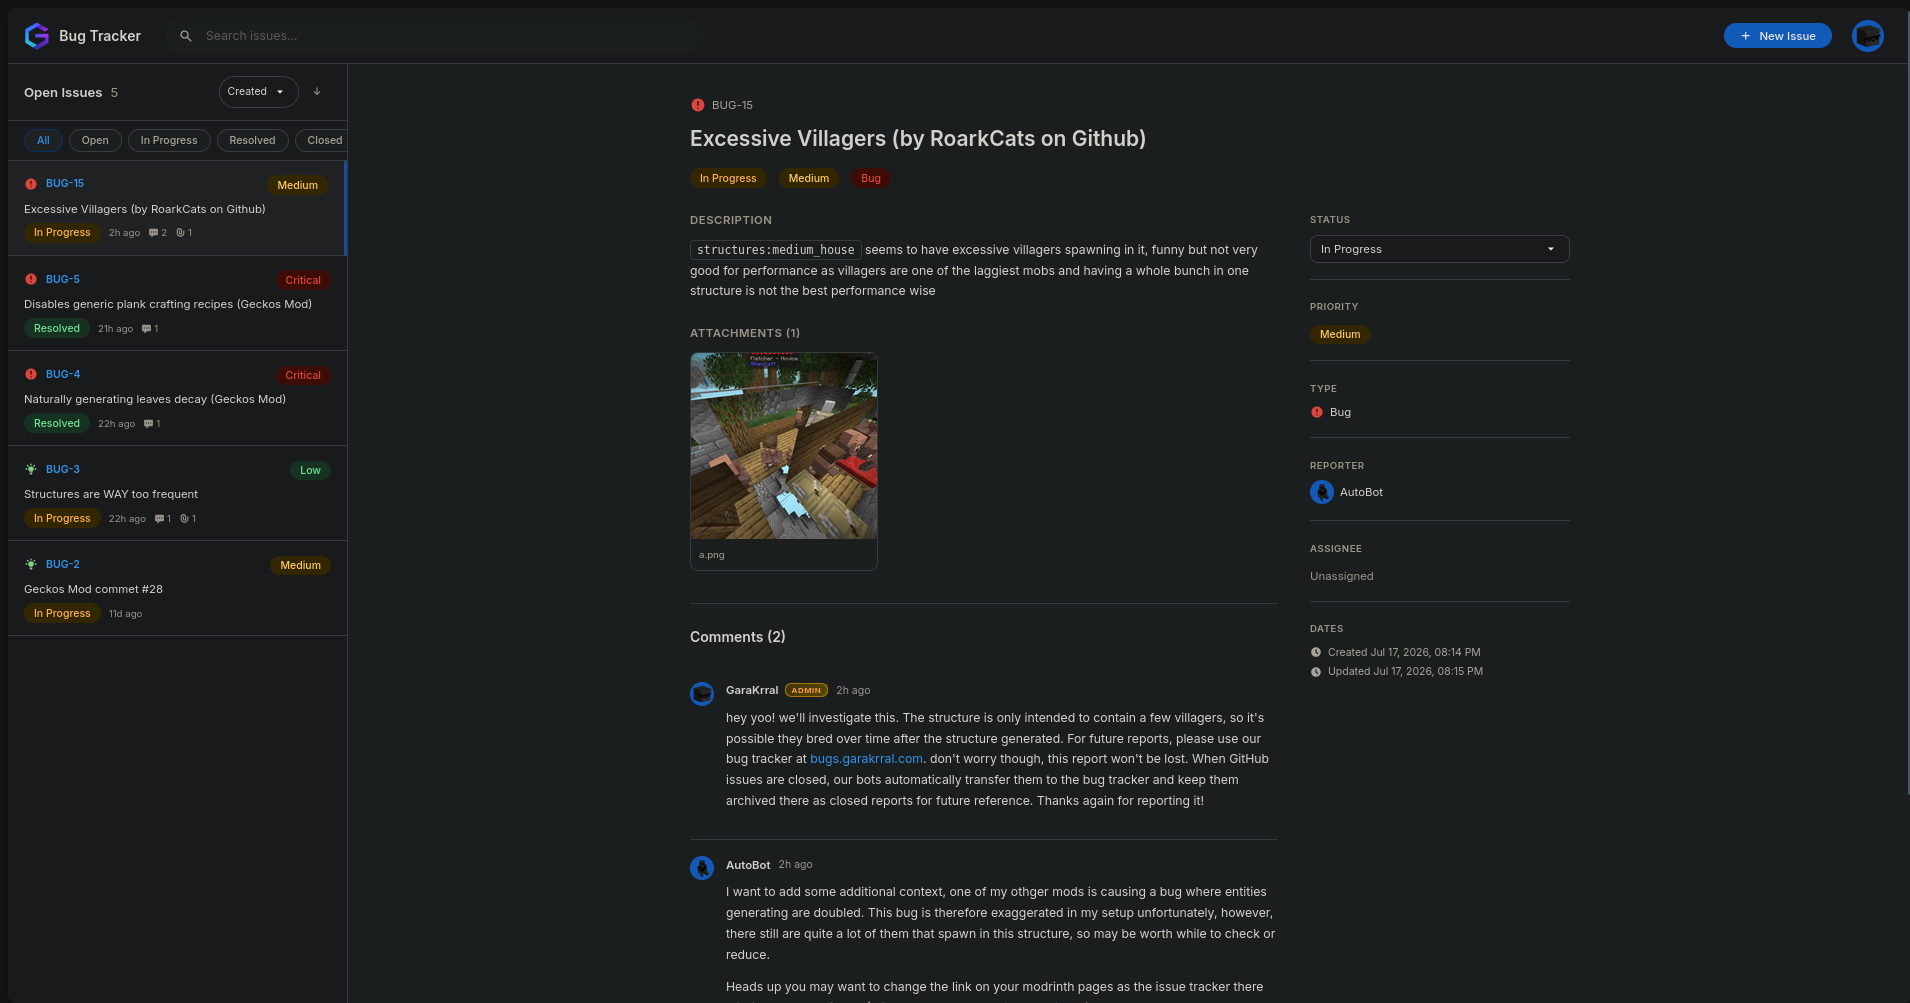
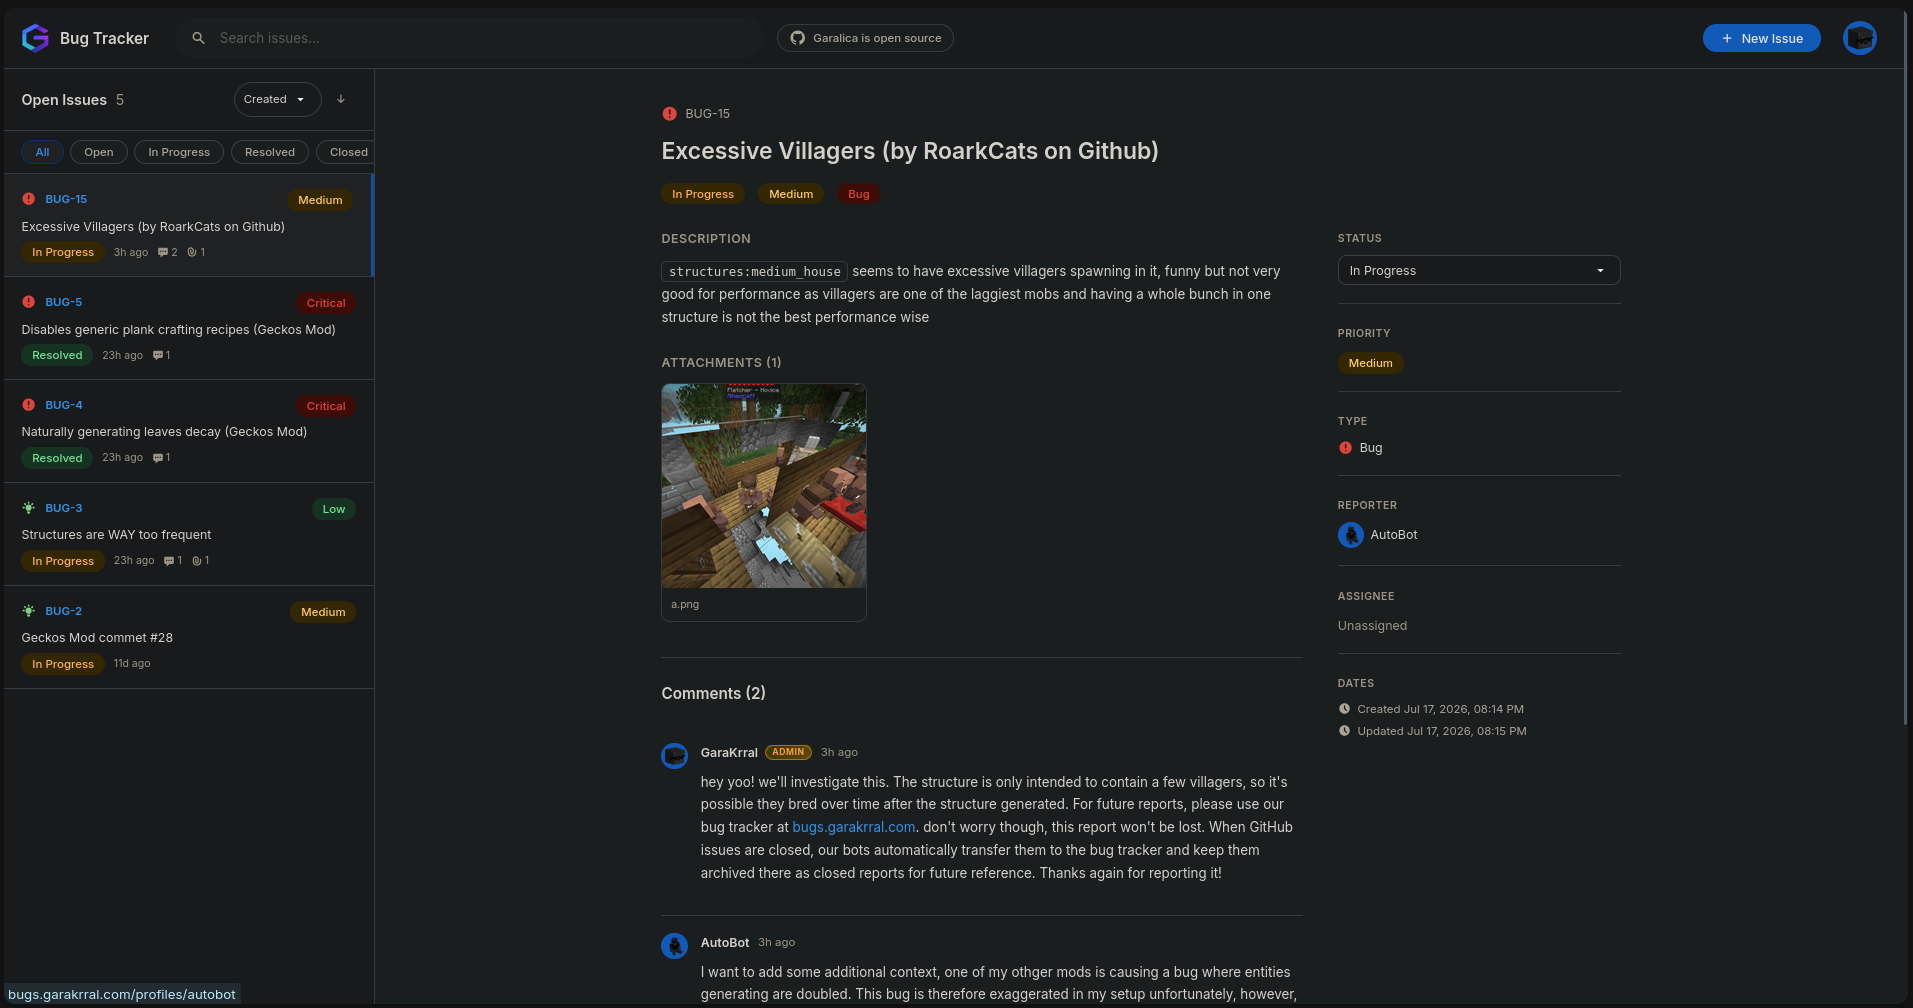
v2026.8392.02

diff --git a/README.md b/README.md
@@ -2,7 +2,7 @@
 
 A modern issue tracker built with React, FastAPI, PostgreSQL, and Docker.
 
-![banner](image-2.png)
+![banner](image.png)
 
 ## Quick Start
 